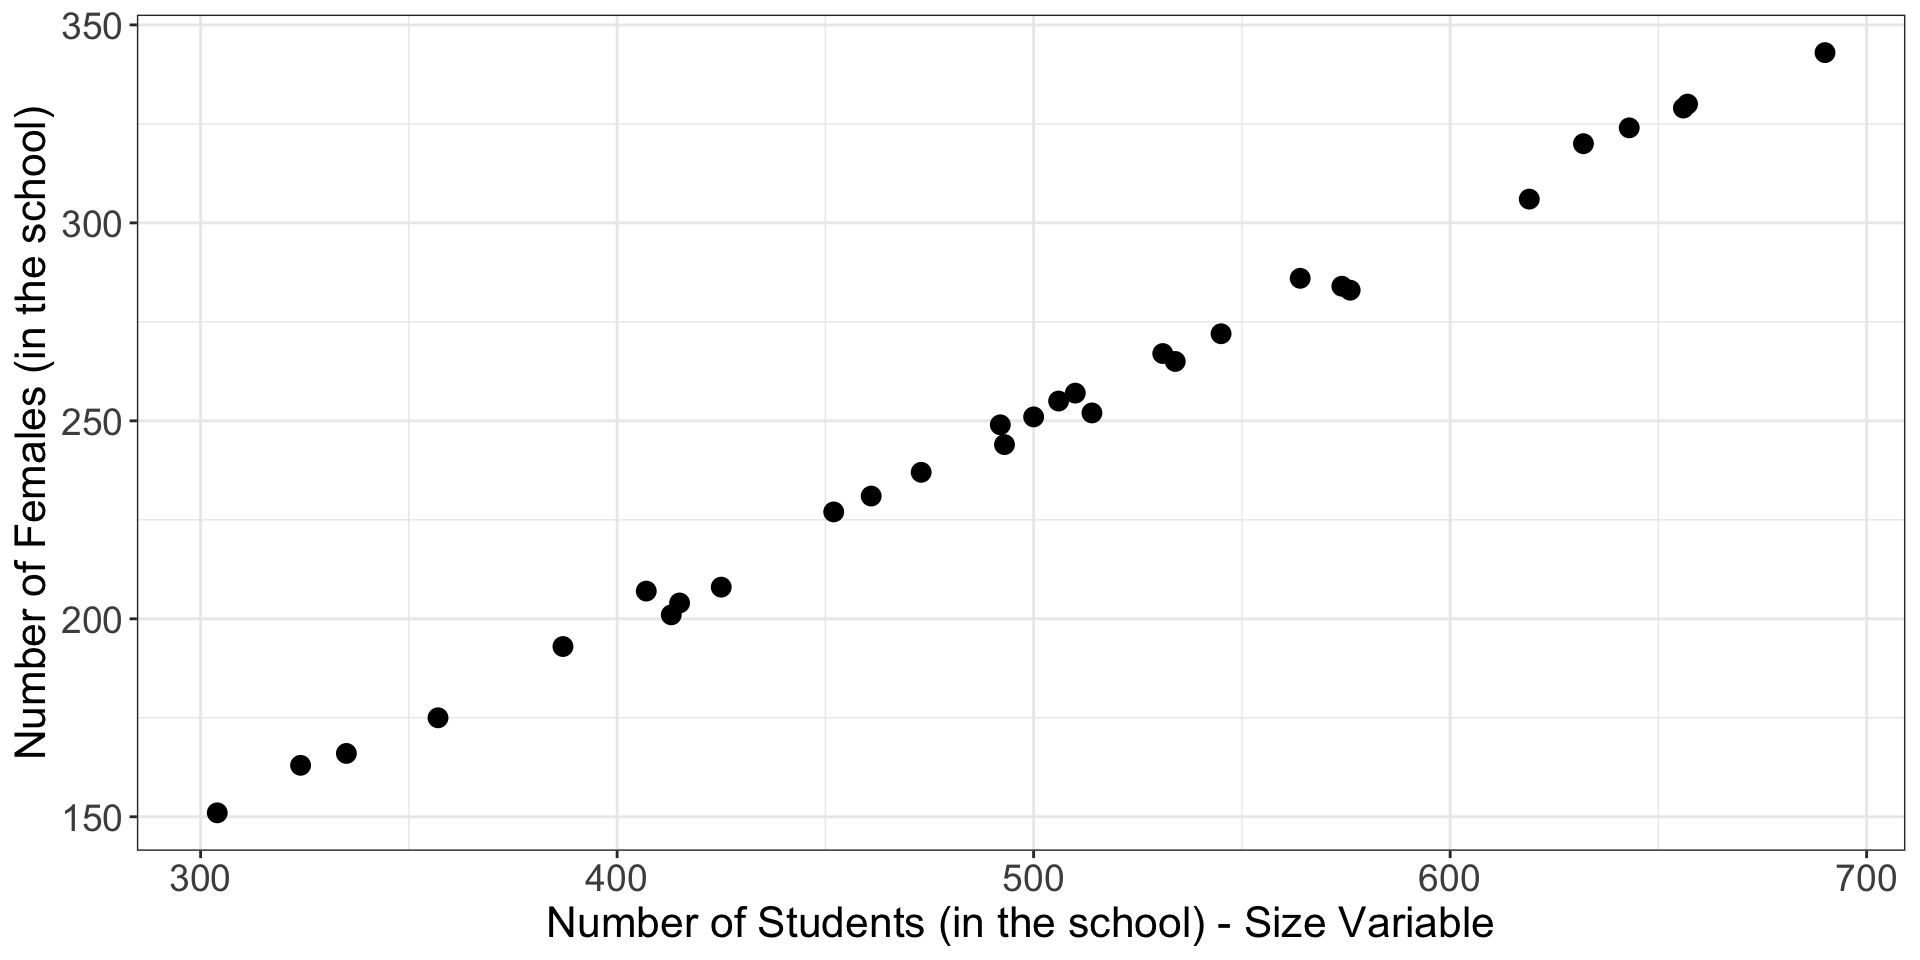
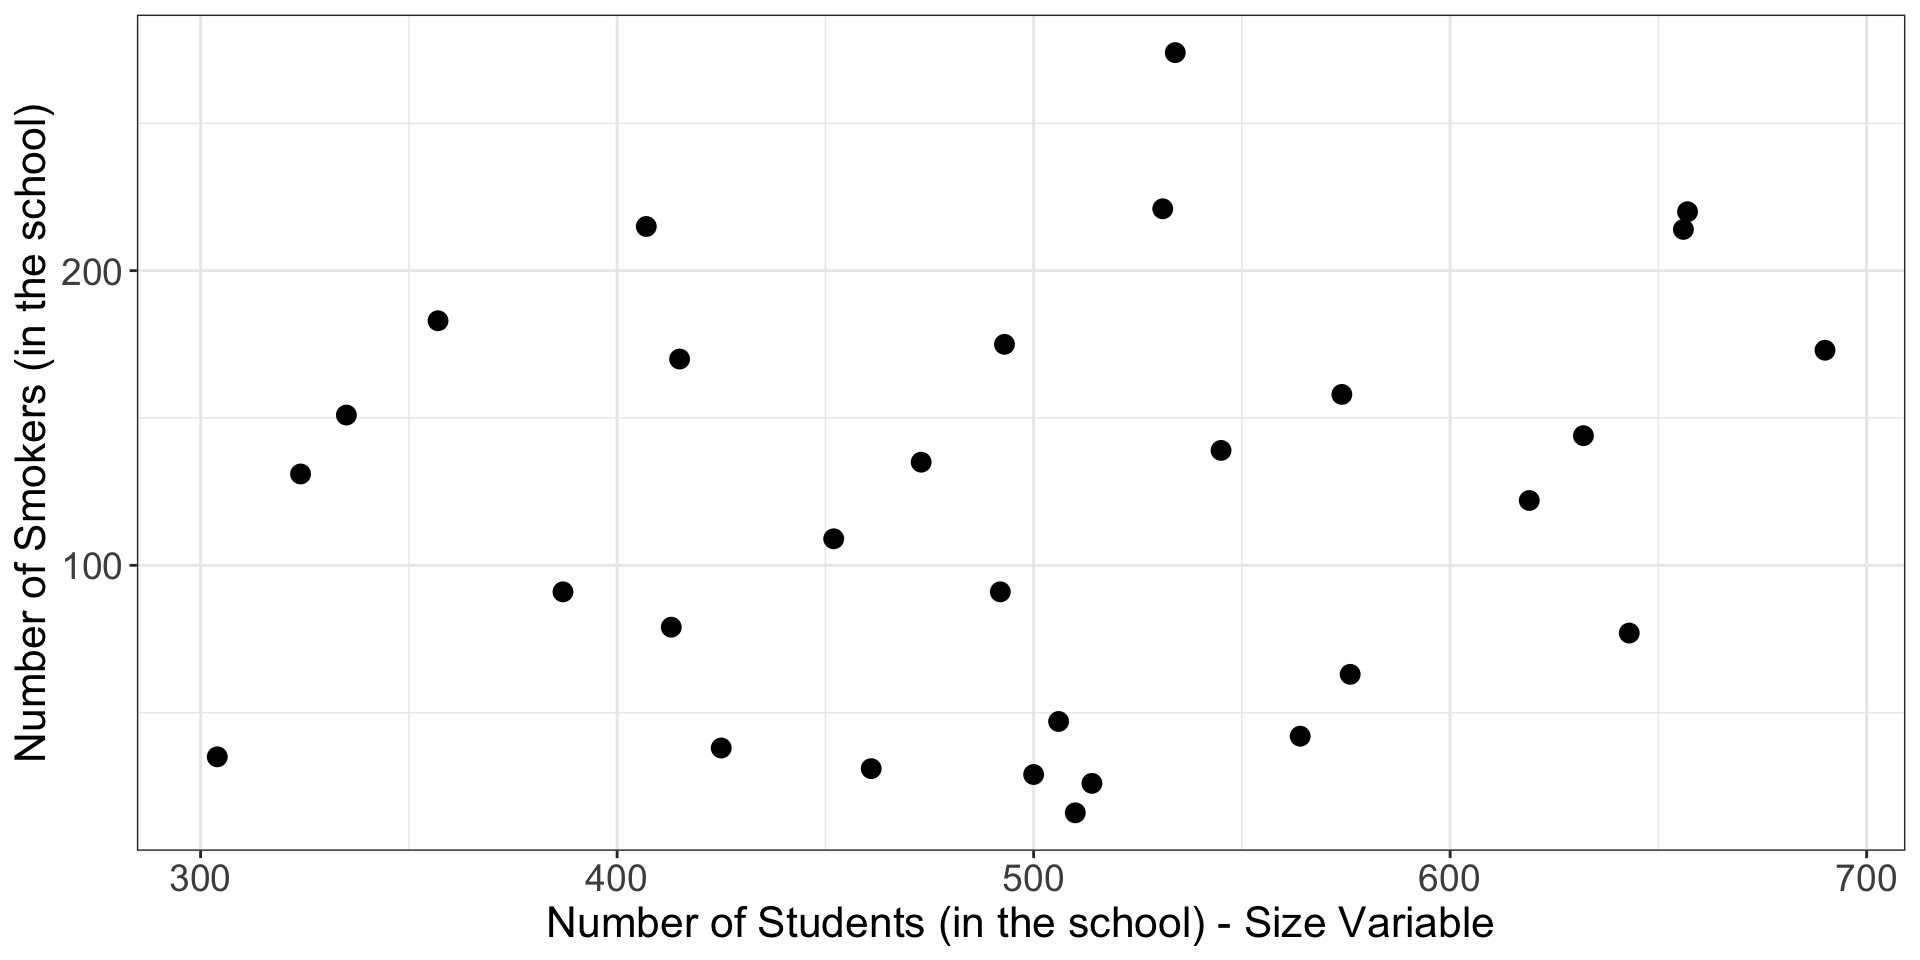
minor edits to L14 code

diff --git a/docs/PUBHBIO7225_L14_ppsSampling.html b/docs/PUBHBIO7225_L14_ppsSampling.html
@@ -843,22 +843,6 @@ totfemale  6615 478.22</code></pre>
 <li>Estimated total = <span class="math inline">\(\hat{t}_{wr} = \frac{1}{n}\sum_{i \in \mathcal{S}} \frac{t_i}{\psi_i} = (7524.5 + 7451.1)/2 = 7487.8\)</span></li>
 </ul>
 <p><em>Note: If a PSU is selected into the sample more than once, you’ll include its estimate multiple times</em></p>
-<!-- ## PPSWR: Sampling Weights -->
-<!-- -   Can rewrite the formula for the estimated total to see the sampling -->
-<!--     weights: -->
-<!-- $$\hat{t}_{wr} = \frac{1}{n}\sum_{i \in \mathcal{S}} \frac{t_i}{\psi_i} = \sum_{i \in \mathcal{S}} \frac{t_i}{n \psi_i} = \sum_{i \in \mathcal{S}} \textcolor{red}{\frac{1}{n \psi_i}} t_i = \sum_{i \in \mathcal{S}} \textcolor{red}{w_i} t_i$$ -->
-<!-- -   Weight for PSU $i$: -->
-<!--     $w_i= \frac{1}{n \psi_i} = \frac{1}{\text{expected \# times PSU $i$ appears in sample}}$ -->
-<!-- -   *Note: sampling weights are **not** the inverse of inclusion -->
-<!--     probabilities for this design* -->
-<!-- For my sample, -->
-<!-- | School | $M_i$ | $t_i$ | $\psi_i$ | $w_i = \frac{1}{n\psi_i}$ | -->
-<!-- |:-------------:|:-------------:|:-------------:|:--------------|:--------------| -->
-<!-- | 8 | 500 | 251 | 0.0333578 | $\frac{1}{2*0.0333578} = \frac{1}{0.0667156} = 14.988998$ | -->
-<!-- | 23 | 690 | 343 | 0.04603376 | $\frac{1}{2*0.04603376} =\frac{1}{0.09206752} = 10.861594$ | -->
-<!-- -   So I can also calculate the estimated total as: -->
-<!--     $\hat{t}_{wr} = \sum_{i \in \mathcal{S}} w_i t_i = (14.988998\times 251) + (10.861594 \times 343) = 7487.8$ -->
-<!--     *(Same estimate, of course!)* -->
 </section>
 <section id="slide-ppswr-var" class="slide level2">
 <h2>PPSWR: Estimating the Variance of the Population Total</h2>
@@ -903,8 +887,6 @@ totfemale  6615 478.22</code></pre>
 = \frac{1}{2} \frac{1}{(2-1)} \left[(7524.477-7487.8)^2 + (7451.0533-7487.8)^2 \right] = \frac{2695.5}{2} = 1347.6\)</span></p>
 <p><span class="math inline">\(\widehat{SE}(\hat{t}_{wr}) = \sqrt{1347.6} = 36.7\)</span></p>
 </div>
-<!-- ## Activity 14.1 (Part 2) -->
-<!-- PPS Sampling (Part 2) -->
 </section>
 <section id="sampling-design-c-pps-without-replacement" class="slide level2 pause">
 <h2>Sampling Design C: PPS Without Replacement</h2>
@@ -1080,7 +1062,7 @@ totfemale  6615 478.22</code></pre>
 </ul></li>
 </ul>
 <div class="cell cell-output">
-<div class="sourceCode cell-code" id="cb3"><pre class="sourceCode numberSource r number-lines code-with-copy"><code class="sourceCode r"><span id="cb3-1"><a></a>des.ppswor <span class="ot">&lt;-</span> <span class="fu">svydesign</span>(<span class="at">id =</span> <span class="sc">~</span><span class="dv">1</span>, <span class="at">weight =</span> <span class="sc">~</span>wt, <span class="at">data=</span>samp)</span>
+<div class="sourceCode cell-code" id="cb3"><pre class="sourceCode numberSource r number-lines code-with-copy"><code class="sourceCode r"><span id="cb3-1"><a></a>des.ppswor <span class="ot">&lt;-</span> <span class="fu">svydesign</span>(<span class="at">id =</span> <span class="sc">~</span><span class="dv">1</span>, <span class="at">weight =</span> <span class="sc">~</span>wt, <span class="at">data=</span>samp_pps)</span>
 <span id="cb3-2"><a></a><span class="fu">svytotal</span>(<span class="sc">~</span>totfemale, des.ppswor)</span></code><button title="Copy to Clipboard" class="code-copy-button"><i class="bi"></i></button></pre></div>
 <div class="cell-output cell-output-stdout">
 <pre><code>           total     SE
@@ -1121,7 +1103,7 @@ totfemale 7482.1 54.728</code></pre>
 <div class="cell-output-display">
 <div>
 <figure>
-<p><img data-src="PUBHBIO7225_L14_ppsSampling_files/figure-revealjs/unnamed-chunk-6-1.png" alt="Scatterplot with number of students on x-axis and number of females on y-axis, showing a very linear relationship along an approximately 45 degree line." width="960"></p>
+<p><img data-src="PUBHBIO7225_L14_ppsSampling_files/figure-revealjs/unnamed-chunk-5-1.png" alt="Scatterplot with number of students on x-axis and number of females on y-axis, showing a very linear relationship along an approximately 45 degree line." width="960"></p>
 </figure>
 </div>
 </div>
@@ -1131,7 +1113,7 @@ totfemale 7482.1 54.728</code></pre>
 <div class="cell-output-display">
 <div>
 <figure>
-<p><img data-src="PUBHBIO7225_L14_ppsSampling_files/figure-revealjs/unnamed-chunk-7-1.png" alt="Scatterplot with number of students on x-axis and number of smokers on y-axis, showing no clear pattern, a random scattering of points." width="960"></p>
+<p><img data-src="PUBHBIO7225_L14_ppsSampling_files/figure-revealjs/unnamed-chunk-6-1.png" alt="Scatterplot with number of students on x-axis and number of smokers on y-axis, showing no clear pattern, a random scattering of points." width="960"></p>
 </figure>
 </div>
 </div>
